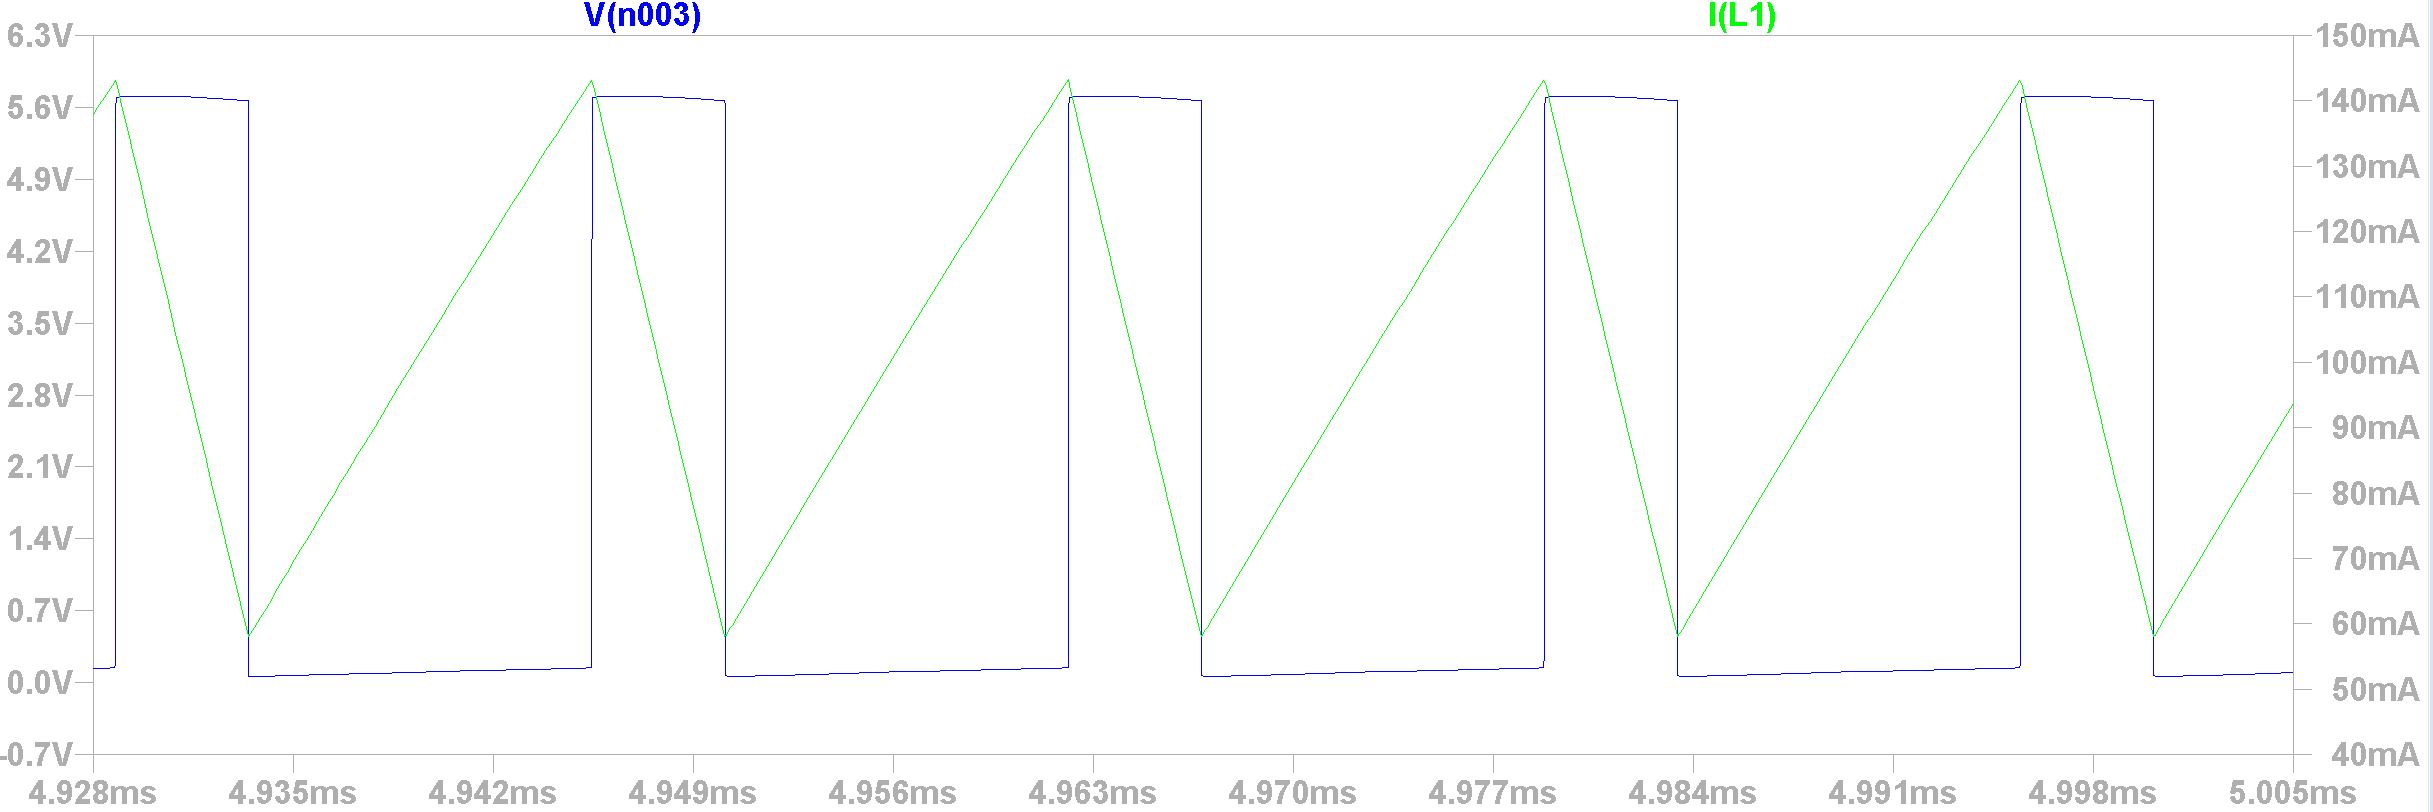
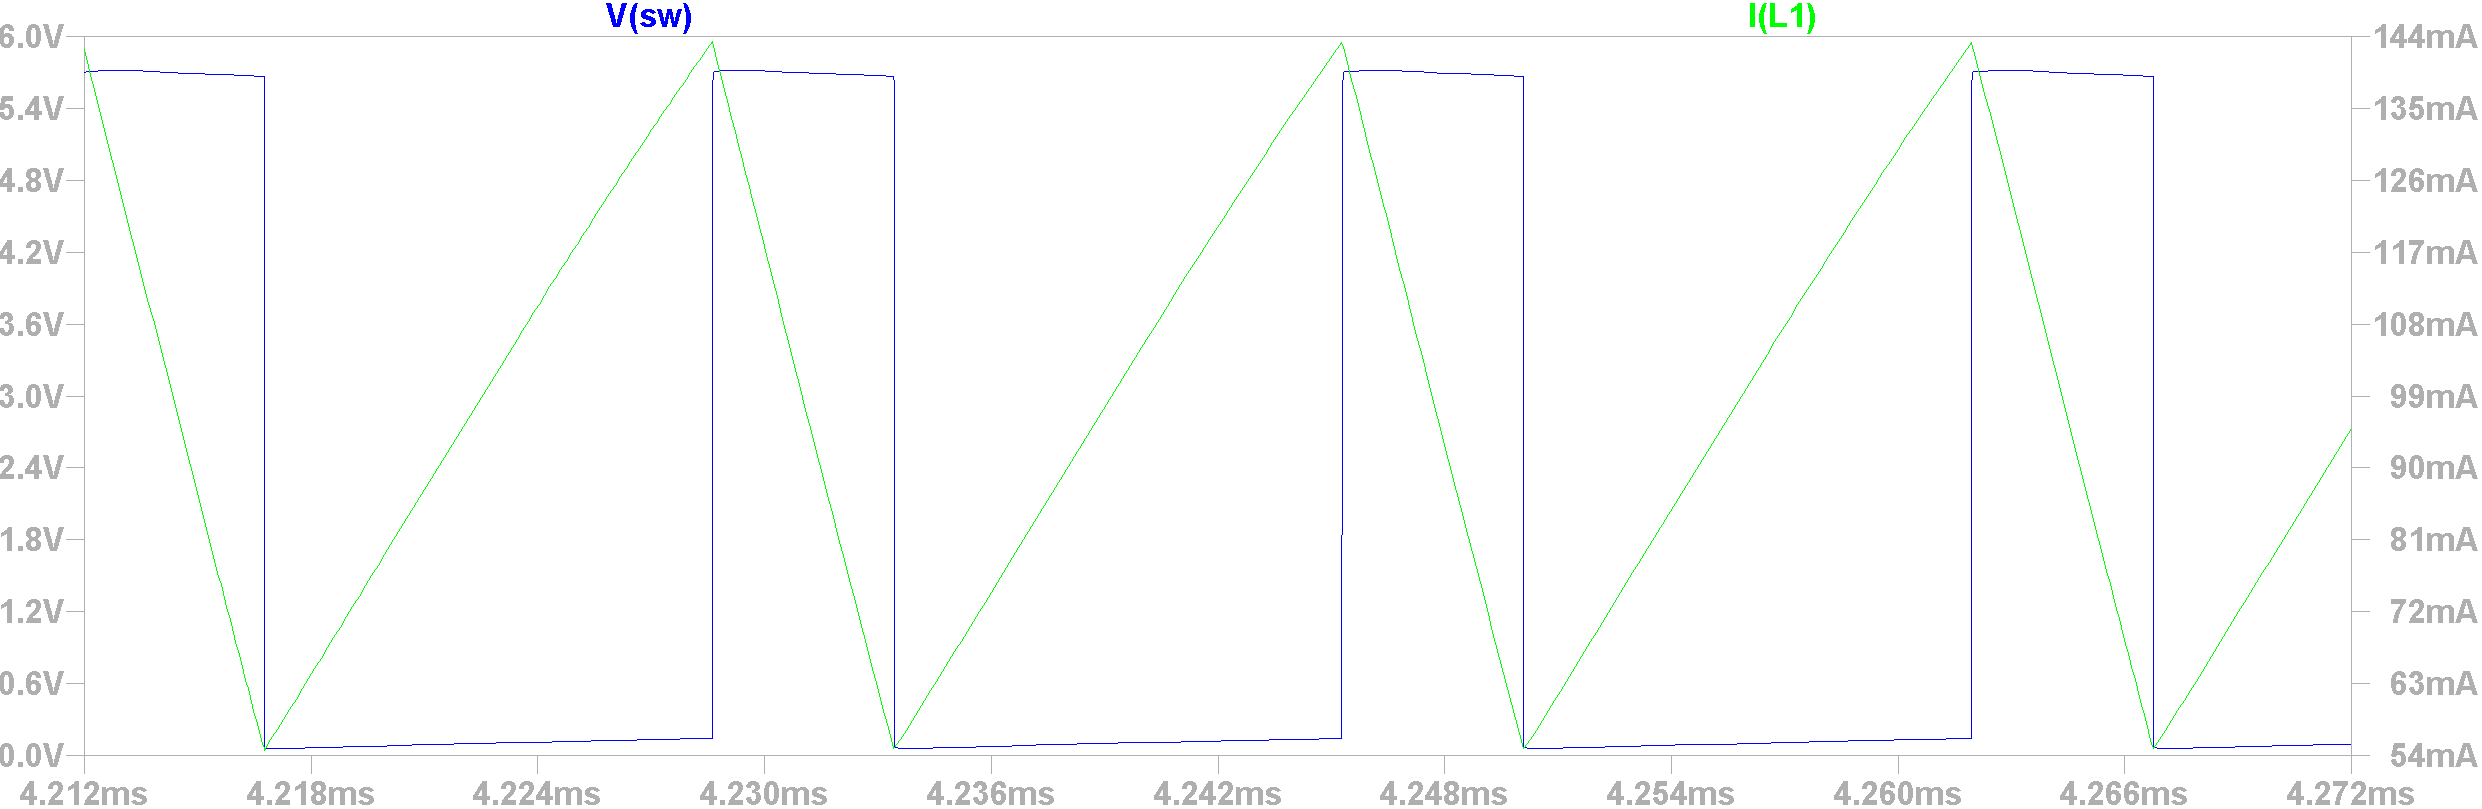
pto 2 terminado

diff --git a/TP1/Informe/e4_tp1_ej2.tex b/TP1/Informe/e4_tp1_ej2.tex
@@ -41,7 +41,7 @@ Con el valor del duty obtenemos el periodo de encendido de la llave $T_{on}=D T_
 Para asegurarnos que estemos trabajando en modo continuo, elegimos una $I_{o}$ tal que: $I_{o}>I_{OB}$:
 
 \[
-I_{OB}(L=220\mu H) = \frac{V_o \cdot (1-D) \cdot T_s}{2L} = 42.5mA
+I_{OB}(L=220\mu H) = \frac{V_o \cdot (1-D_{ideal}) \cdot T_s}{2L} = 42.5mA
 \]
 
 
@@ -63,7 +63,7 @@ Por lo tanto, suponiendo $I_o=100mA$, obtenemos una carga de $R=33\Omega$
 
 
 El valor del capacitor se obtuvo con la siguiente formula:
-$$C=\frac{(1-D) \cdot T_{s}^{2}}{8\cdot L\cdot \frac{\Delta V_{o_{max}}}{V_o}}=1.073\mu F$$
+$$C=\frac{(1-D_{ideal}) \cdot T_{s}^{2}}{8\cdot L\cdot \frac{\Delta V_{o_{max}}}{V_o}}=1.073\mu F$$
 
 Para realizar las simulaci\'on se tom\'o  $L=220\mu H$ y se obtuvo que: 
 $$D_{real}=0.711$$
@@ -87,8 +87,8 @@ $$I_{L_{min}}= I_o - \frac{\Delta I_L}{2}$$
 
 Adem\'as, en r\'egimen permanente se cumple: $\Delta I_{L_{ON}}+\Delta I_{L_{OFF}}=0$ y $\Delta I_{L_{ON}}=\frac{(V_i-V_o)\cdot D\cdot T_s}{L}$.
 
-$$I_{L_{max}}= I_o + \frac{(V_i-V_o)\cdot D_{real}\cdot T_s}{L}=142.5mA$$
-$$I_{L_{min}}= I_o - \frac{(V_i-V_o)\cdot D_{real}\cdot T_s}{L}=53.6mA$$
+$$I_{L_{max}}= I_o + \frac{(V_i-V_o)\cdot D_{real}\cdot T_s}{L}=145mA$$
+$$I_{L_{min}}= I_o - \frac{(V_i-V_o)\cdot D_{real}\cdot T_s}{L}=54mA$$
 
 
 
